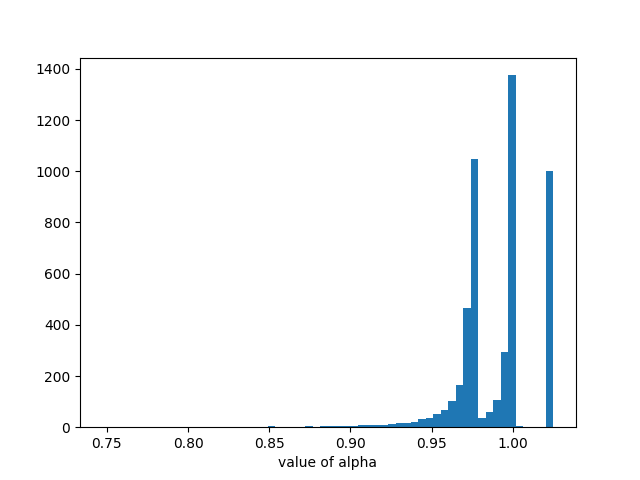
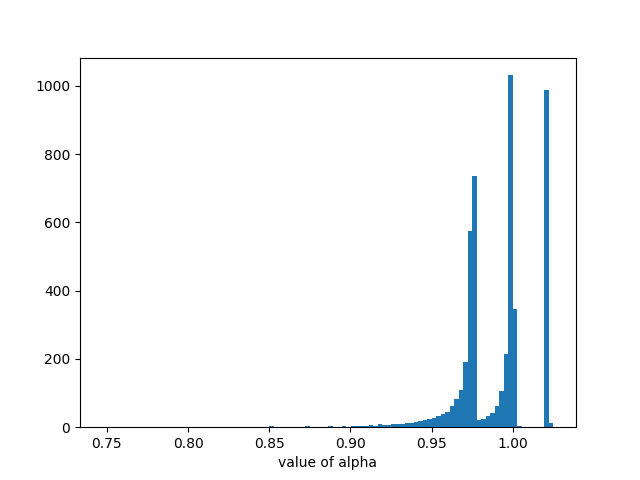
update

diff --git a/Ex3_square_harmonic_adaptive/estimate_boundary.py b/Ex3_square_harmonic_adaptive/estimate_boundary.py
@@ -57,13 +57,13 @@ PETSc.Sys.Print("Total number of the points estimated on the bottom  boundary is
 PETSc.Sys.Print("Mean of the alpha is % s, the standard deviation is %s " %(alpha_mean,alpha_std))
 PETSc.Sys.Print("Mean of the c is % s, the standard deviation is %s " %(c_mean,c_std))
 
-plt.hist(alpha_list,bins=60)
+plt.hist(alpha_list,bins=100)
 plt.xlabel('value of alpha')
 plt.savefig(f"figures/distribution_alpha_n{n}_N{N}.png")
 plt.close()
 PETSc.Sys.Print(f"plot of distribution of all estiamted alpha is saved in figures/distribution_alpha_n{n}_N{N}.png.")
 
-plt.hist(c_list,bins=60)
+plt.hist(c_list,bins=100)
 plt.xlabel('value of c')
 plt.savefig(f"figures/distribution_c_n{n}_N{N}.png")
 plt.close()
